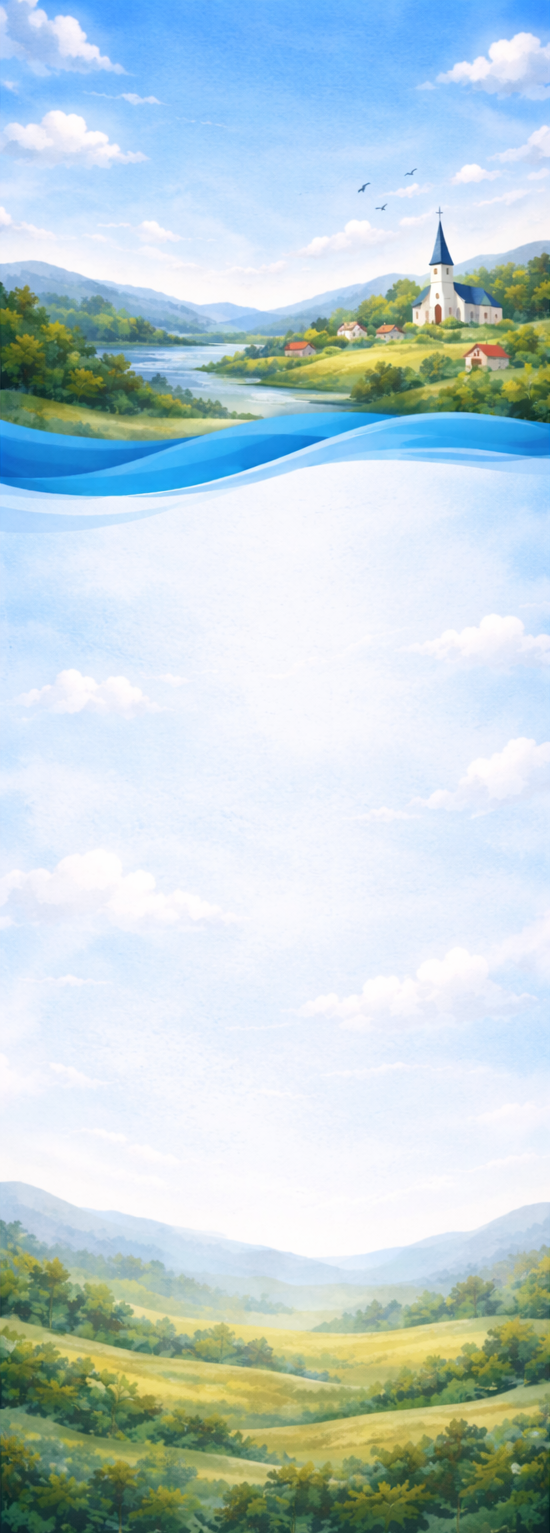
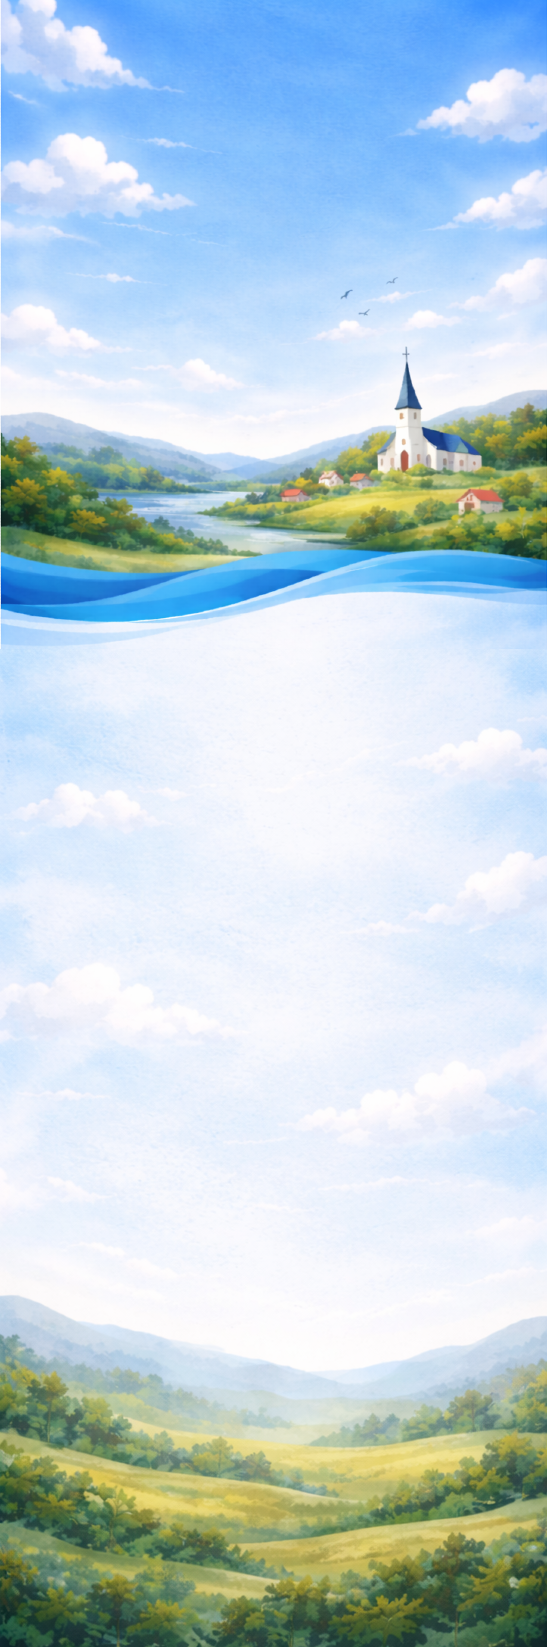
refine mobile background

diff --git a/src/pages/HomePage.css b/src/pages/HomePage.css
@@ -3,6 +3,7 @@
     text-align: left;
     width: 100vw;
     margin-left: calc(50% - 50vw);
+    background-image: url("../assets/background_1.png");
     background-size: cover;
     background-position: center;
     background-repeat: no-repeat;
@@ -82,6 +83,7 @@
    levágódnak (object-position: center). */
 @media (max-width: 768px) {
     .home-page {
+        background-image: url("../assets/mobile_bg.png");
         min-height: 160svh;
         background-position: 80% center;
     }
@@ -105,7 +107,7 @@
     }
 
     .home-hero__content {
-        gap: 3rem;
+        gap: 4rem;
     }
 
     .home-hero__actions {

diff --git a/src/pages/HomePage.tsx b/src/pages/HomePage.tsx
@@ -6,7 +6,7 @@ import "./HomePage.css";
 
 const HomePage: React.FC = () => {
   return (
-    <div className="home-page" style={{ backgroundImage: `url(${heroBg})` }}>
+    <div className="home-page">
       {/* Desktop: <img> drives natural page height → full image, scrollable */}
       <img src={heroBg} alt="" className="home-page__bg" aria-hidden="true" />
 
